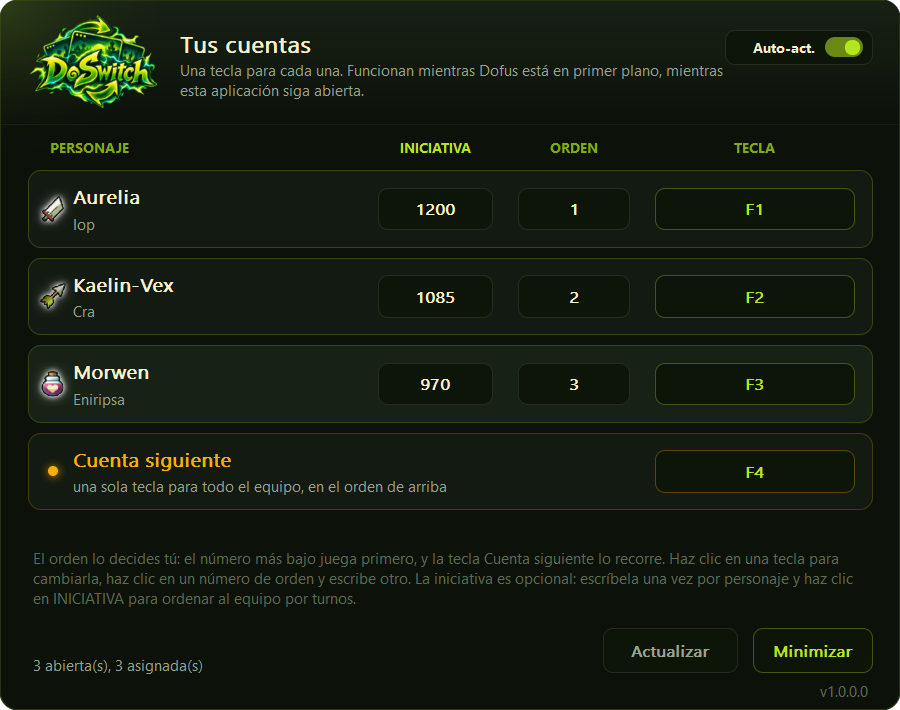
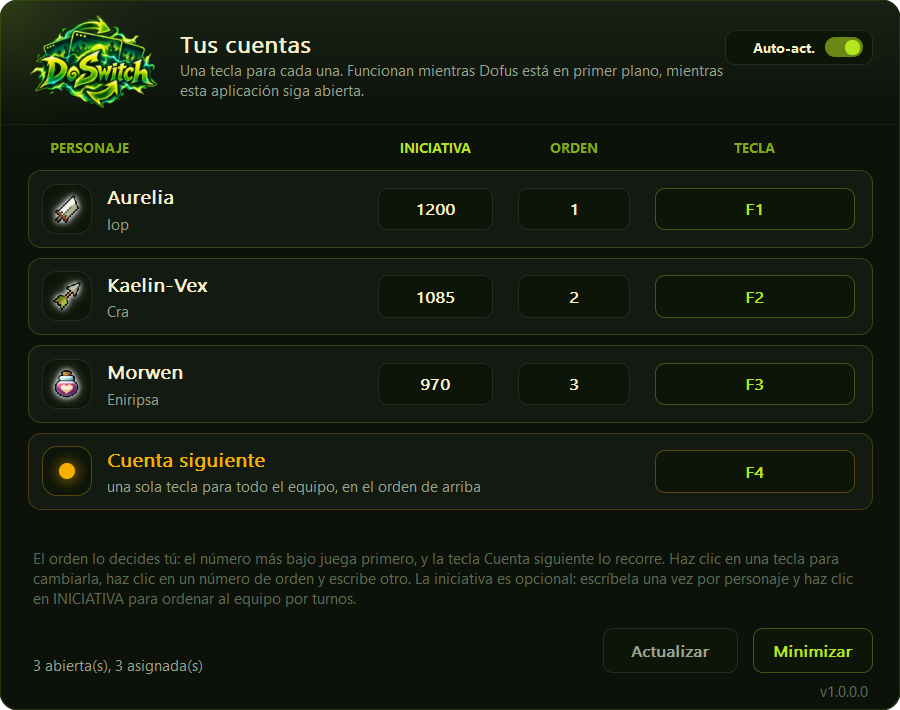
Give every row a badge for its emblem to sit in
The emblem was hung on its own beside two lines of text, vertically
centred between them, so it floated in the gap where the name ends and the
breed begins and read as something dropped onto the row rather than part
of it. Twenty-four pixels next to thirty-four pixels of stacked text had
nothing to square up against.

So it gets a surface: a rounded tile at the head of the row, the emblem
inset in it, the whole thing centred against both lines at once.

The Next-account and auto-switch rows get the same tile with their status
dot inside, and that is the half that actually fixes the look. Badging only
the account rows would have put their text at one indent and those two at
another, which is worse than the problem being solved - a list wants one
left rail, not two. Their dots grew with the tile for the same reason: a
four pixel dot adrift in a forty pixel square is the original complaint
again in miniature.

diff --git a/src/panel.rs b/src/panel.rs
@@ -44,9 +44,18 @@ const PILL_HEIGHT: i32 = 34;
 const KEY_WIDTH: i32 = 160;
 const ORDER_WIDTH: i32 = 90;
 const INIT_WIDTH: i32 = 92;
-/// The class emblem at the front of a row, in the place the status dot
-/// used to have to itself.
-const EMBLEM: i32 = 24;
+/// The rounded tile at the head of every row. A 24px emblem hung on its
+/// own beside two lines of text had nothing to sit on: it floated in the
+/// gap between the name and the breed and read as something dropped on
+/// the row rather than part of it. A badge gives it a surface, squares it
+/// up against the two text lines, and - because the Next-account and
+/// auto-switch rows get the same badge with their status dot inside it -
+/// puts every row's text on one left rail instead of two.
+const BADGE: i32 = 40;
+/// The emblem's inset inside that badge.
+const BADGE_PAD: i32 = 7;
+/// Where a row's text starts: past the badge, plus a gap.
+const ROW_TEXT: i32 = 11 + BADGE + 12;
 // The list shows at most this many accounts and scrolls the rest, so
 // the window is a fixed, sensible size whether a player runs two
 // clients or twenty. Six is what fits without the panel feeling tall.
@@ -272,6 +281,13 @@ fn layout(lang: Lang, rows: &[(String, String)], text: Text, scroll: usize)
 /// The furthest the list can be scrolled, in whole rows.
 fn max_scroll(row_count: usize) -> usize {
     row_count.saturating_sub(MAX_VISIBLE_ROWS)
+}
+
+/// The badge rectangle at the head of a row, in device pixels.
+fn badge_of(area: R, scale: f32) -> R {
+    let at = |value: i32| (value as f32 * scale).round() as i32;
+    let size = at(BADGE);
+    R::new(area.l + at(11), area.t + (area.height() - size) / 2, size, size)
 }
 
 fn scale_of(hwnd: HWND) -> f32 {
@@ -748,20 +764,19 @@ unsafe fn paint_to(hwnd: HWND, dc: HDC) {
             Part::Row { character, breed } => {
                 canvas.outline(area, at(10), at(1), line_live(),
                                if hovered { RAISED } else { SURFACE });
-                // The class emblem where the status dot was, centred on the
-                // same point so the name does not move. A breed the table
-                // does not know gets the dot back rather than a stand-in
-                // emblem: a wrong class beside a name would look like a
-                // reading, and there is nothing about it that looks wrong.
-                let middle = area.t + area.height() / 2;
-                let slot = R::new(
-                    area.l + at(20) - at(EMBLEM) / 2,
-                    middle - at(EMBLEM) / 2,
-                    at(EMBLEM),
-                    at(EMBLEM),
-                );
-                if !crate::emblem::draw(&canvas, slot, breed) {
-                    canvas.lit_dot(area.l + at(20), middle, at(4), LEAF);
+                // The badge, then the class emblem sitting in it. A breed
+                // the table does not know gets the plain dot back, in the
+                // same badge: a wrong emblem beside a name would look like
+                // a reading, and there is nothing about it that looks wrong.
+                let badge = badge_of(area, scale);
+                canvas.outline(badge, at(12), at(1), line_soft(), PILL);
+                if !crate::emblem::draw(&canvas, badge.inset(at(BADGE_PAD)), breed) {
+                    canvas.lit_dot(
+                        badge.l + badge.width() / 2,
+                        badge.t + badge.height() / 2,
+                        at(6),
+                        LEAF,
+                    );
                 }
                 // Stopped short of the first pill. The name is the game's
                 // and can be long; running it under the numbers is how a
@@ -769,14 +784,14 @@ unsafe fn paint_to(hwnd: HWND, dc: HDC) {
                 let text_right = at(init_x - 12);
                 canvas.text(
                     character,
-                    R { l: area.l + at(36), t: area.t + at(10), r: text_right, b: area.t + at(32) },
+                    R { l: area.l + at(ROW_TEXT), t: area.t + at(10), r: text_right, b: area.t + at(32) },
                     fonts.name,
                     CREAM,
                     DT_SINGLELINE | DT_VCENTER | DT_NOPREFIX | DT_END_ELLIPSIS,
                 );
                 canvas.text(
                     breed,
-                    R { l: area.l + at(36), t: area.t + at(32), r: text_right, b: area.b - at(8) },
+                    R { l: area.l + at(ROW_TEXT), t: area.t + at(32), r: text_right, b: area.b - at(8) },
                     fonts.small,
                     MUTED,
                     DT_SINGLELINE | DT_VCENTER | DT_NOPREFIX | DT_END_ELLIPSIS,
@@ -785,17 +800,22 @@ unsafe fn paint_to(hwnd: HWND, dc: HDC) {
             Part::NextRow => {
                 canvas.outline(area, at(10), at(1), line_gold(),
                                if hovered { RAISED } else { SURFACE });
-                canvas.lit_dot(area.l + at(20), area.t + area.height() / 2, at(4), GOLD);
+                // The same badge the account rows wear, with the gold dot
+                // inside it - so the whole list reads down one left rail
+                // and every row's text starts at the same x.
+                let badge = badge_of(area, scale);
+                canvas.outline(badge, at(12), at(1), mix(SURFACE, GOLD, 0.30), PILL);
+                canvas.lit_dot(badge.l + badge.width() / 2, badge.t + badge.height() / 2, at(6), GOLD);
                 canvas.text(
                     lang.next_account(),
-                    R { l: area.l + at(36), t: area.t + at(10), r: area.r, b: area.t + at(32) },
+                    R { l: area.l + at(ROW_TEXT), t: area.t + at(10), r: area.r, b: area.t + at(32) },
                     fonts.name,
                     GOLD,
                     DT_SINGLELINE | DT_VCENTER | DT_NOPREFIX,
                 );
                 canvas.text(
                     lang.next_account_hint(),
-                    R { l: area.l + at(36), t: area.t + at(32), r: area.r, b: area.b - at(8) },
+                    R { l: area.l + at(ROW_TEXT), t: area.t + at(32), r: area.r, b: area.b - at(8) },
                     fonts.small,
                     MUTED,
                     DT_SINGLELINE | DT_VCENTER | DT_NOPREFIX,
